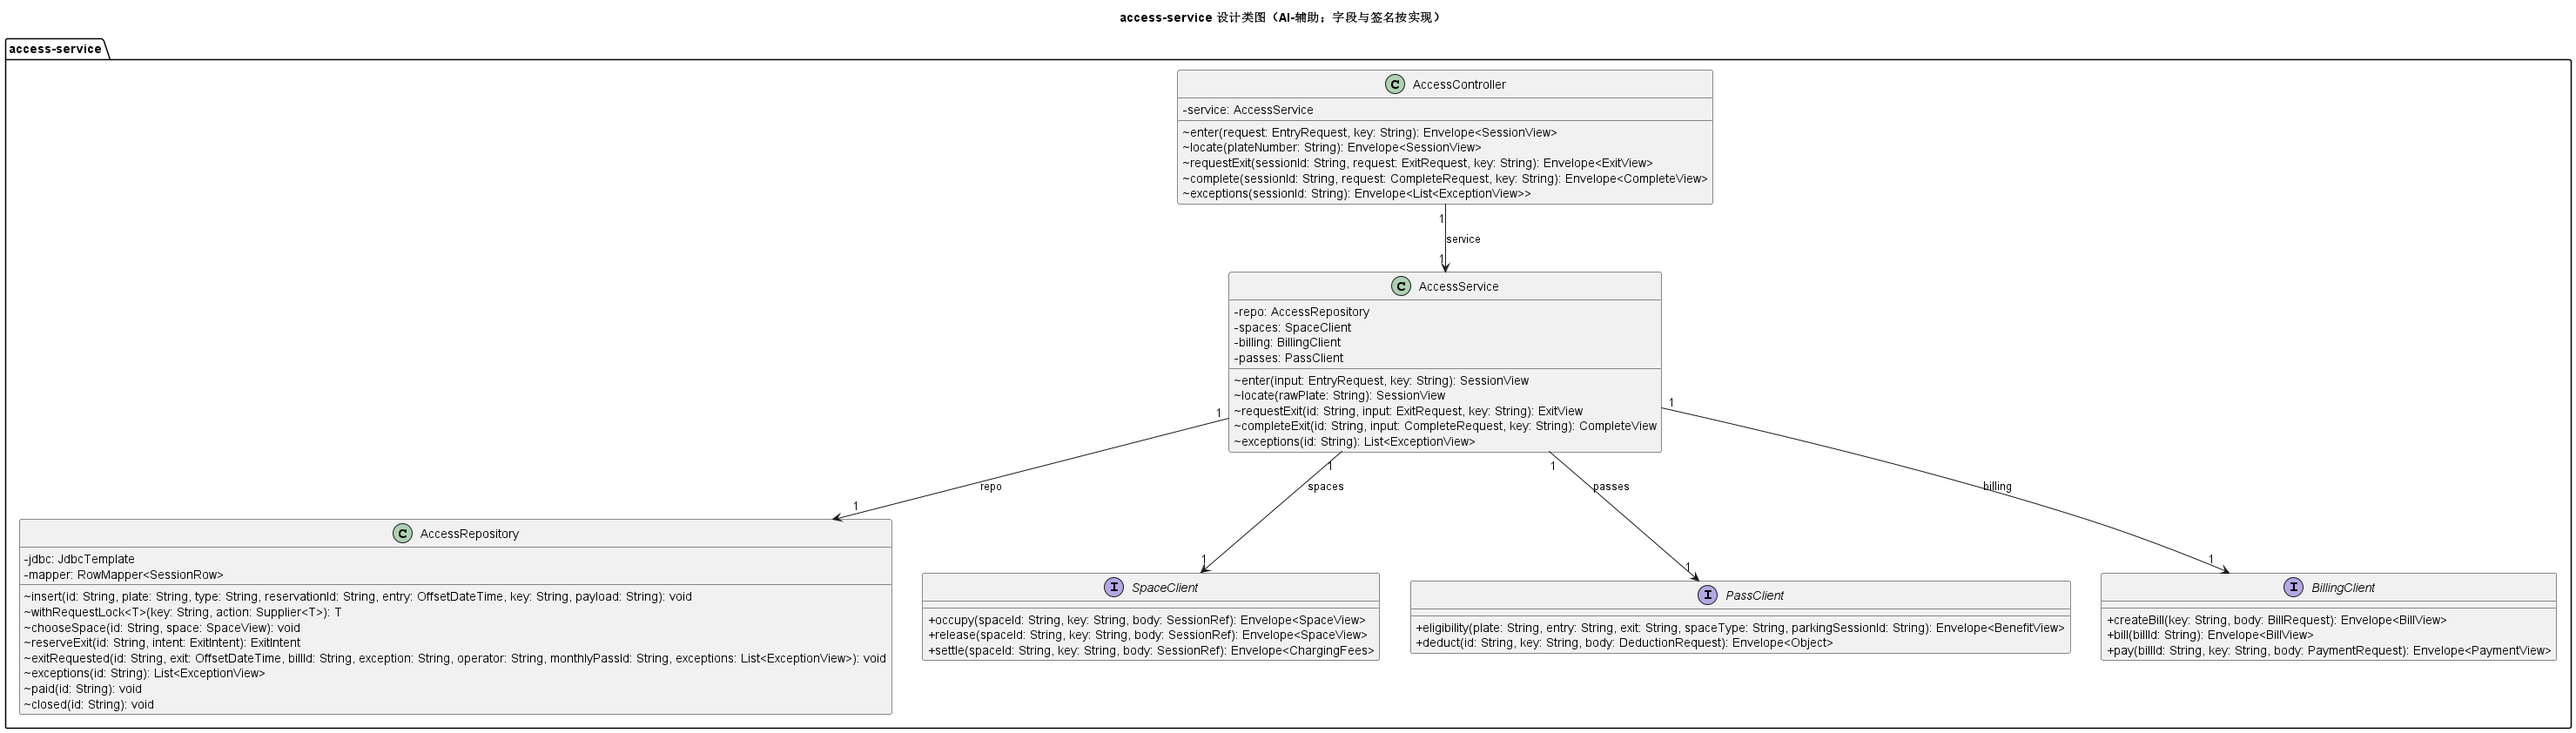
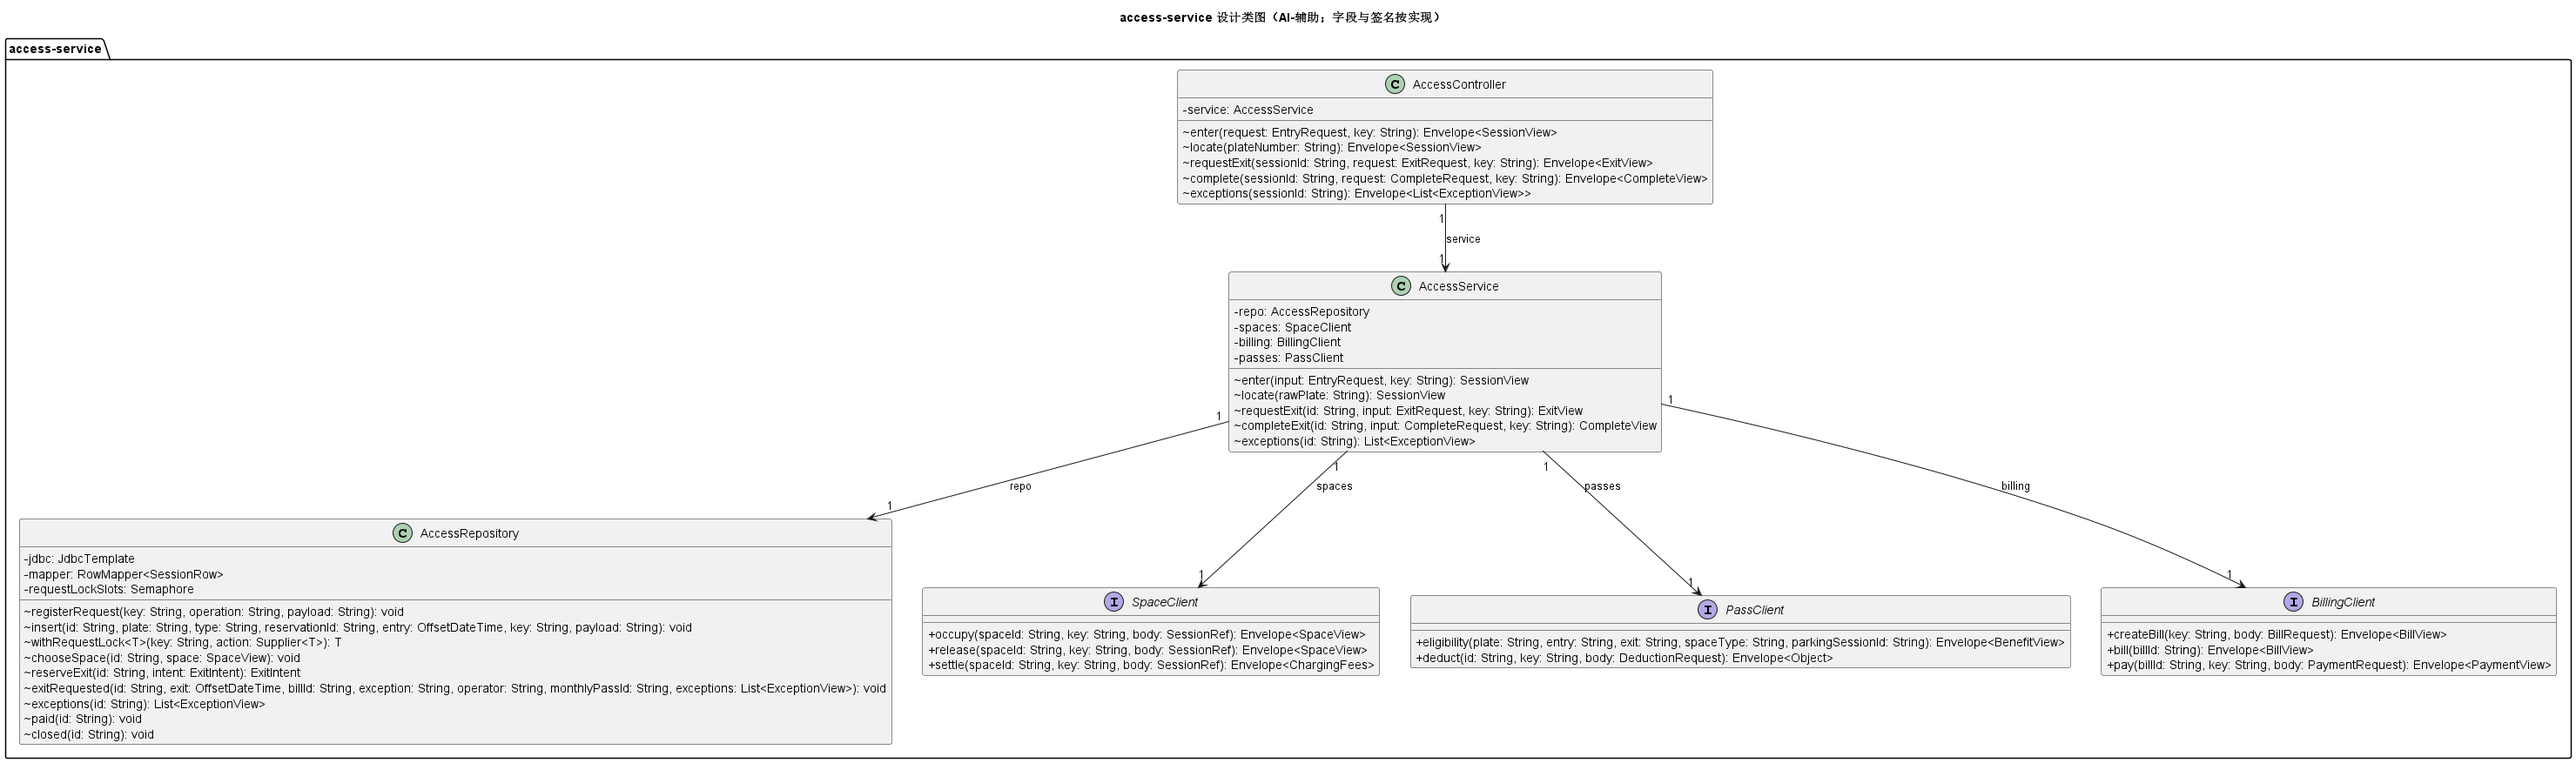
Bound entry row locks by database pool capacity

diff --git a/access-service/src/main/java/cn/jsuhao/parking/access/AccessRepository.java b/access-service/src/main/java/cn/jsuhao/parking/access/AccessRepository.java
@@ -14,7 +14,9 @@ import java.time.OffsetDateTime;
 import java.time.ZoneOffset;
 import java.util.List;
 import java.util.Optional;
+import java.util.concurrent.Semaphore;
 import java.util.function.Supplier;
+import com.zaxxer.hikari.HikariDataSource;
 import org.springframework.jdbc.core.JdbcTemplate;
 import org.springframework.jdbc.core.ConnectionCallback;
 import org.springframework.jdbc.core.RowMapper;
@@ -25,6 +27,7 @@ import org.springframework.transaction.annotation.Transactional;
 class AccessRepository {
     private final JdbcTemplate jdbc;
     private final RowMapper<SessionRow> mapper = this::map;
+    private Semaphore requestLockSlots;
 
     AccessRepository(JdbcTemplate jdbc) {
         this.jdbc = jdbc;
@@ -44,31 +47,52 @@ class AccessRepository {
             signature = HexFormat.of().formatHex(MessageDigest.getInstance("SHA-256")
                     .digest(payload.getBytes(StandardCharsets.UTF_8)));
         } catch (NoSuchAlgorithmException impossible) { throw new IllegalStateException(impossible); }
-        jdbc.update("INSERT INTO access_request_key(request_key,operation_name,request_signature) "
-                + "VALUES (?,?,?) ON DUPLICATE KEY UPDATE request_key=request_key", key, operation, signature);
-        var saved = jdbc.queryForMap("SELECT operation_name,request_signature FROM access_request_key WHERE request_key=?", key);
-        if (!operation.equals(saved.get("operation_name")) || !signature.equals(saved.get("request_signature")))
+        var saved = jdbc.queryForList(
+                "SELECT operation_name,request_signature FROM access_request_key WHERE request_key=?", key);
+        if (saved.isEmpty()) {
+            jdbc.update("INSERT INTO access_request_key(request_key,operation_name,request_signature) "
+                    + "VALUES (?,?,?) ON DUPLICATE KEY UPDATE request_key=request_key", key, operation, signature);
+            saved = jdbc.queryForList(
+                    "SELECT operation_name,request_signature FROM access_request_key WHERE request_key=?", key);
+        }
+        var registered = saved.getFirst();
+        if (!operation.equals(registered.get("operation_name")) || !signature.equals(registered.get("request_signature")))
             throw new ApiFailure("IDEMPOTENCY_CONFLICT", org.springframework.http.HttpStatus.CONFLICT,
                     "请求键已用于其他请求内容");
     }
 
     <T> T withRequestLock(String key, Supplier<T> action) {
-        // ponytail: one extra DB connection is held during Feign calls; a durable claim can shorten this lock later.
-        return jdbc.execute((ConnectionCallback<T>) connection -> {
-            connection.setAutoCommit(false);
-            try {
-                try (PreparedStatement statement = connection.prepareStatement(
-                        "SELECT request_key FROM access_request_key WHERE request_key=? FOR UPDATE")) {
-                    statement.setString(1, key);
-                    try (ResultSet rows = statement.executeQuery()) {
-                        if (!rows.next()) throw new IllegalStateException("Request key was not registered");
+        // ponytail: hold at most poolSize-1 lock connections; replace with a durable claim if throughput demands it.
+        Semaphore slots = requestLockSlots();
+        slots.acquireUninterruptibly();
+        try {
+            return jdbc.execute((ConnectionCallback<T>) connection -> {
+                connection.setAutoCommit(false);
+                try {
+                    try (PreparedStatement statement = connection.prepareStatement(
+                            "SELECT request_key FROM access_request_key WHERE request_key=? FOR UPDATE")) {
+                        statement.setString(1, key);
+                        try (ResultSet rows = statement.executeQuery()) {
+                            if (!rows.next()) throw new IllegalStateException("Request key was not registered");
+                        }
                     }
+                    return action.get();
+                } finally {
+                    connection.rollback(); // Entry/compensation records commit on their own connections.
                 }
-                return action.get();
-            } finally {
-                connection.rollback(); // Lock only; entry/compensation records commit on their own connections.
-            }
-        });
+            });
+        } finally {
+            slots.release();
+        }
+    }
+
+    private synchronized Semaphore requestLockSlots() {
+        if (requestLockSlots == null) {
+            if (!(jdbc.getDataSource() instanceof HikariDataSource pool) || pool.getMaximumPoolSize() < 2)
+                throw new IllegalStateException("Access database pool needs at least two connections");
+            requestLockSlots = new Semaphore(pool.getMaximumPoolSize() - 1, true);
+        }
+        return requestLockSlots;
     }
 
     Optional<ExitIntent> exitIntent(String id) {

diff --git a/access-service/src/test/java/cn/jsuhao/parking/access/AccessServiceTest.java b/access-service/src/test/java/cn/jsuhao/parking/access/AccessServiceTest.java
@@ -30,6 +30,7 @@ import org.springframework.test.context.bean.override.mockito.MockitoBean;
         "spring.datasource.driver-class-name=org.h2.Driver",
         "spring.datasource.username=sa",
         "spring.datasource.password=",
+        "spring.datasource.hikari.maximum-pool-size=2",
         "spring.cloud.nacos.discovery.enabled=false"
 })
 class AccessServiceTest {
@@ -75,6 +76,8 @@ class AccessServiceTest {
                 continueFirst.countDown();
             }
             assertEquals(first.get(5, TimeUnit.SECONDS), retry.get(5, TimeUnit.SECONDS));
+            assertEquals("IDEMPOTENCY_CONFLICT", assertThrows(ApiFailure.class, () ->
+                    service.enter(new EntryRequest("苏M12345", "NORMAL", null, input.entryTime()), key)).code());
             verify(spaces, times(1)).occupy(eq(spaceId), anyString(), any());
         }
     }

diff --git a/docs/agent-handoff.md b/docs/agent-handoff.md
@@ -2,6 +2,12 @@
 
 > 本文件用于中途接手。先读根目录 `AGENTS.md`、`docs/decisions.md`、`docs/api-contract.md` 和两份课程原件。业务语义与接口由这些文件约束；本记录只说明当前工作状态。请勿把未验证事项写成已完成。
 
+## 2026-10-14：入场请求键锁的连接池容量保护
+
+- **UC-02，图 15**：复查前一轮同键行锁发现，每个正在处理的入场需要一条锁连接，再需要另一条连接提交记录。若锁连接占满 Hikari 池，处理中的请求会互相等待直到超时。`AccessRepository` 现在从已启动的 Hikari 池读取最大连接数，将同时持锁的入场数限制为 `poolSize - 1`；池容量小于 2 时明确拒绝启动该操作。已存在的请求键先只读校验，新键才尝试插入，避免重复请求在入队前执行无效更新并锁住同一行。`AccessServiceTest` 将池收窄至 2；修复前同键并发测试因重复更新锁等待超时失败，修复后同键重试返回同一停车记录、只占位一次，改内容复用同键仍返回 `IDEMPOTENCY_CONFLICT`。停车记录仍独立提交，异常补偿不被锁事务回滚。
+- **边界**：这是单实例连接池容量保护，跨实例仍依赖数据库行锁。长时间 Feign 调用仍会占用锁连接；需要更高吞吐量时应引入持久化处理权并缩短锁持有时间。本轮无 HTTP 字段、状态、表、费率或依赖变化；接口契约仅澄清请求键行锁与独立提交语义。H2 压力测试不代表真实 MySQL 竞争已验证。
+- **验证**：Java 21 `./mvnw.cmd -q test` 的七份 Surefire XML 合计 25 条、0 失败、0 错误；PlantUML 1.2024.3 对图 15 `-checkonly`、渲染退出 0，已打开 `models/rendered/15-design-classes.png` 检查可读。Docker Desktop Linux Engine 和 Ubuntu VM 仍不可达，未进行本轮真实 MySQL/网关重测。
+
 ## 2026-10-14：UC-02 同键并发入场加固
 
 - **复现**：新增 `AccessServiceTest.concurrentRetryOfOneEntryOccupiesOnlyOnce`，让第一次请求停在候选车位查询后，第二次以同一请求键、同一内容并发进入。修复前单测退出 1：预期第二次等待，实际立即完成；原有 `access_request_key` 的无操作重复插入没有覆盖整个入场流程。

diff --git a/docs/api-contract.md b/docs/api-contract.md
@@ -24,7 +24,7 @@
 | POST /internal/v1/spaces/{spaceId}/occupy | {parkingSessionId} | {spaceId,type,floor,zone,number,status,parkingSessionId} | 条件更新 AVAILABLE→OCCUPIED；同 session 重试返回相同结果 |
 | POST /internal/v1/spaces/{spaceId}/release | {parkingSessionId} | 同上，status=AVAILABLE | 只有相同 session 可释放；重复释放幂等 |
 | POST /internal/v1/spaces/{spaceId}/settlement | {parkingSessionId} | {parkingSessionId,chargingCents} | 出账前冻结本停车记录充电费用；必须仍占用此车位且无 ACTIVE 充电；有 ACTIVE 返回 409 STATE_CONFLICT；冻结后禁止新增充电，同 session 重试返回原快照 |
-| POST /api/v1/access/entries | {plateNumber,spaceType,reservationId?,entryTime?} | {parkingSessionId,plateNumber,spaceId,floor,zone,spaceNumber,entryTime,status,exitTime?,billId?,exceptionType?,operator?} | entryTime 可指定带偏移量的演示时刻，省略则取服务器当前时刻；预约位必须提供有效预约；同键并发入场由 access 自有库事务串行化，重试返回同一停车记录；出场附加字段用于页面重开后恢复待结算工作台 |
+| POST /api/v1/access/entries | {plateNumber,spaceType,reservationId?,entryTime?} | {parkingSessionId,plateNumber,spaceId,floor,zone,spaceNumber,entryTime,status,exitTime?,billId?,exceptionType?,operator?} | entryTime 可指定带偏移量的演示时刻，省略则取服务器当前时刻；预约位必须提供有效预约；同键并发入场由 access 自有库请求键行锁串行化，停车记录独立提交以支持故障恢复，重试返回同一记录；出场附加字段用于页面重开后恢复待结算工作台 |
 | GET /api/v1/access/locate?plateNumber=... | plateNumber 必填 | 同上 | 仅返回仍在场车辆；带回已冻结出场意图；billing 故障时 `EXIT_PENDING_PAYMENT` 的 billId 可暂为空，重试出账后再支付/释放 |
 | GET /internal/v1/access/sessions?from=...&to=... | 带偏移量的 from、to，左闭右开 | [{parkingSessionId,entryTime,exitTime?,status}] | 只给 analytics 统计已完成入场的记录（PARKED/EXIT_PENDING_PAYMENT/PAID_PENDING_RELEASE/CLOSED），排除 ENTERING/ENTRY_FAILED |
 

diff --git a/docs/traceability.md b/docs/traceability.md
@@ -5,7 +5,7 @@
 | UC | 需求结果 | 权威服务/接口 | 主要表 | 可编辑模型源 | 当前验证 |
 |---|---|---|---|---|---|
 | 01 | 四类车位可查、新增、停用/恢复 | space：GET/POST /api/v1/spaces，PATCH /api/v1/spaces/{id}/service-status | parking_space、charger | 01、02、12、15、16 | MySQL 网关查询、新增、停用、恢复通过；当前 Docker 栈核对 31 个种子位及 6 个充电桩 |
-| 02 | 唯一停车记录并占位 | access：POST /api/v1/access/entries；space：occupy | parking_session、parking_space | 03、05、06、11、15、16 | MySQL 网关入场成功；重复车牌有自动测试；真实 MySQL 8 路同车位占用仅 1 路成功；H2 同键并发入场测试由修复前失败变为通过，真实 MySQL 同键场景待复测 |
+| 02 | 唯一停车记录并占位 | access：POST /api/v1/access/entries；space：occupy | parking_session、parking_space | 03、05、06、11、15、16 | MySQL 网关入场成功；重复车牌有自动测试；真实 MySQL 8 路同车位占用仅 1 路成功；H2 同键并发入场在 2 连接池下通过，含重复请求键内容冲突和失败补偿，真实 MySQL 同键场景待复测 |
 | 03 | 分时阶梯计费、每日封顶 | billing：POST /internal/v1/billing/bills；access：冻结出场意图 | bill、payment、exit_intent、access_request_key | 03、07、08、11、15、16、17 | 5 条定价边界测试；MySQL 2 小时账单 1000 分；billing 断线后保留意图、重试仅一账单 |
 | 04 | 模拟支付、发票申请 | billing：payments、invoice-requests | bill、payment、invoice_request | 03、07、08、14、16、17 | MySQL 8 路并发支付仅一笔成功；支付后释放失败保持待释放、恢复不二次收费；发票申请通过 |
 | 05 | 指定车位预约与预付 | pass：reservations、pay、cancel、consume、GET reservations/{id}；space：内部只读车位列表 | reservation、reservation_prepayment | 04、09、10、11、15、16 | MySQL 8 路同窗预约仅一路成功；预约优惠、预付抵扣、差额退款和重试通过；到期扫描与 USED 不回退有自动测试；内部 GET 与创建/取消预约在 Docker 栈验证 |
